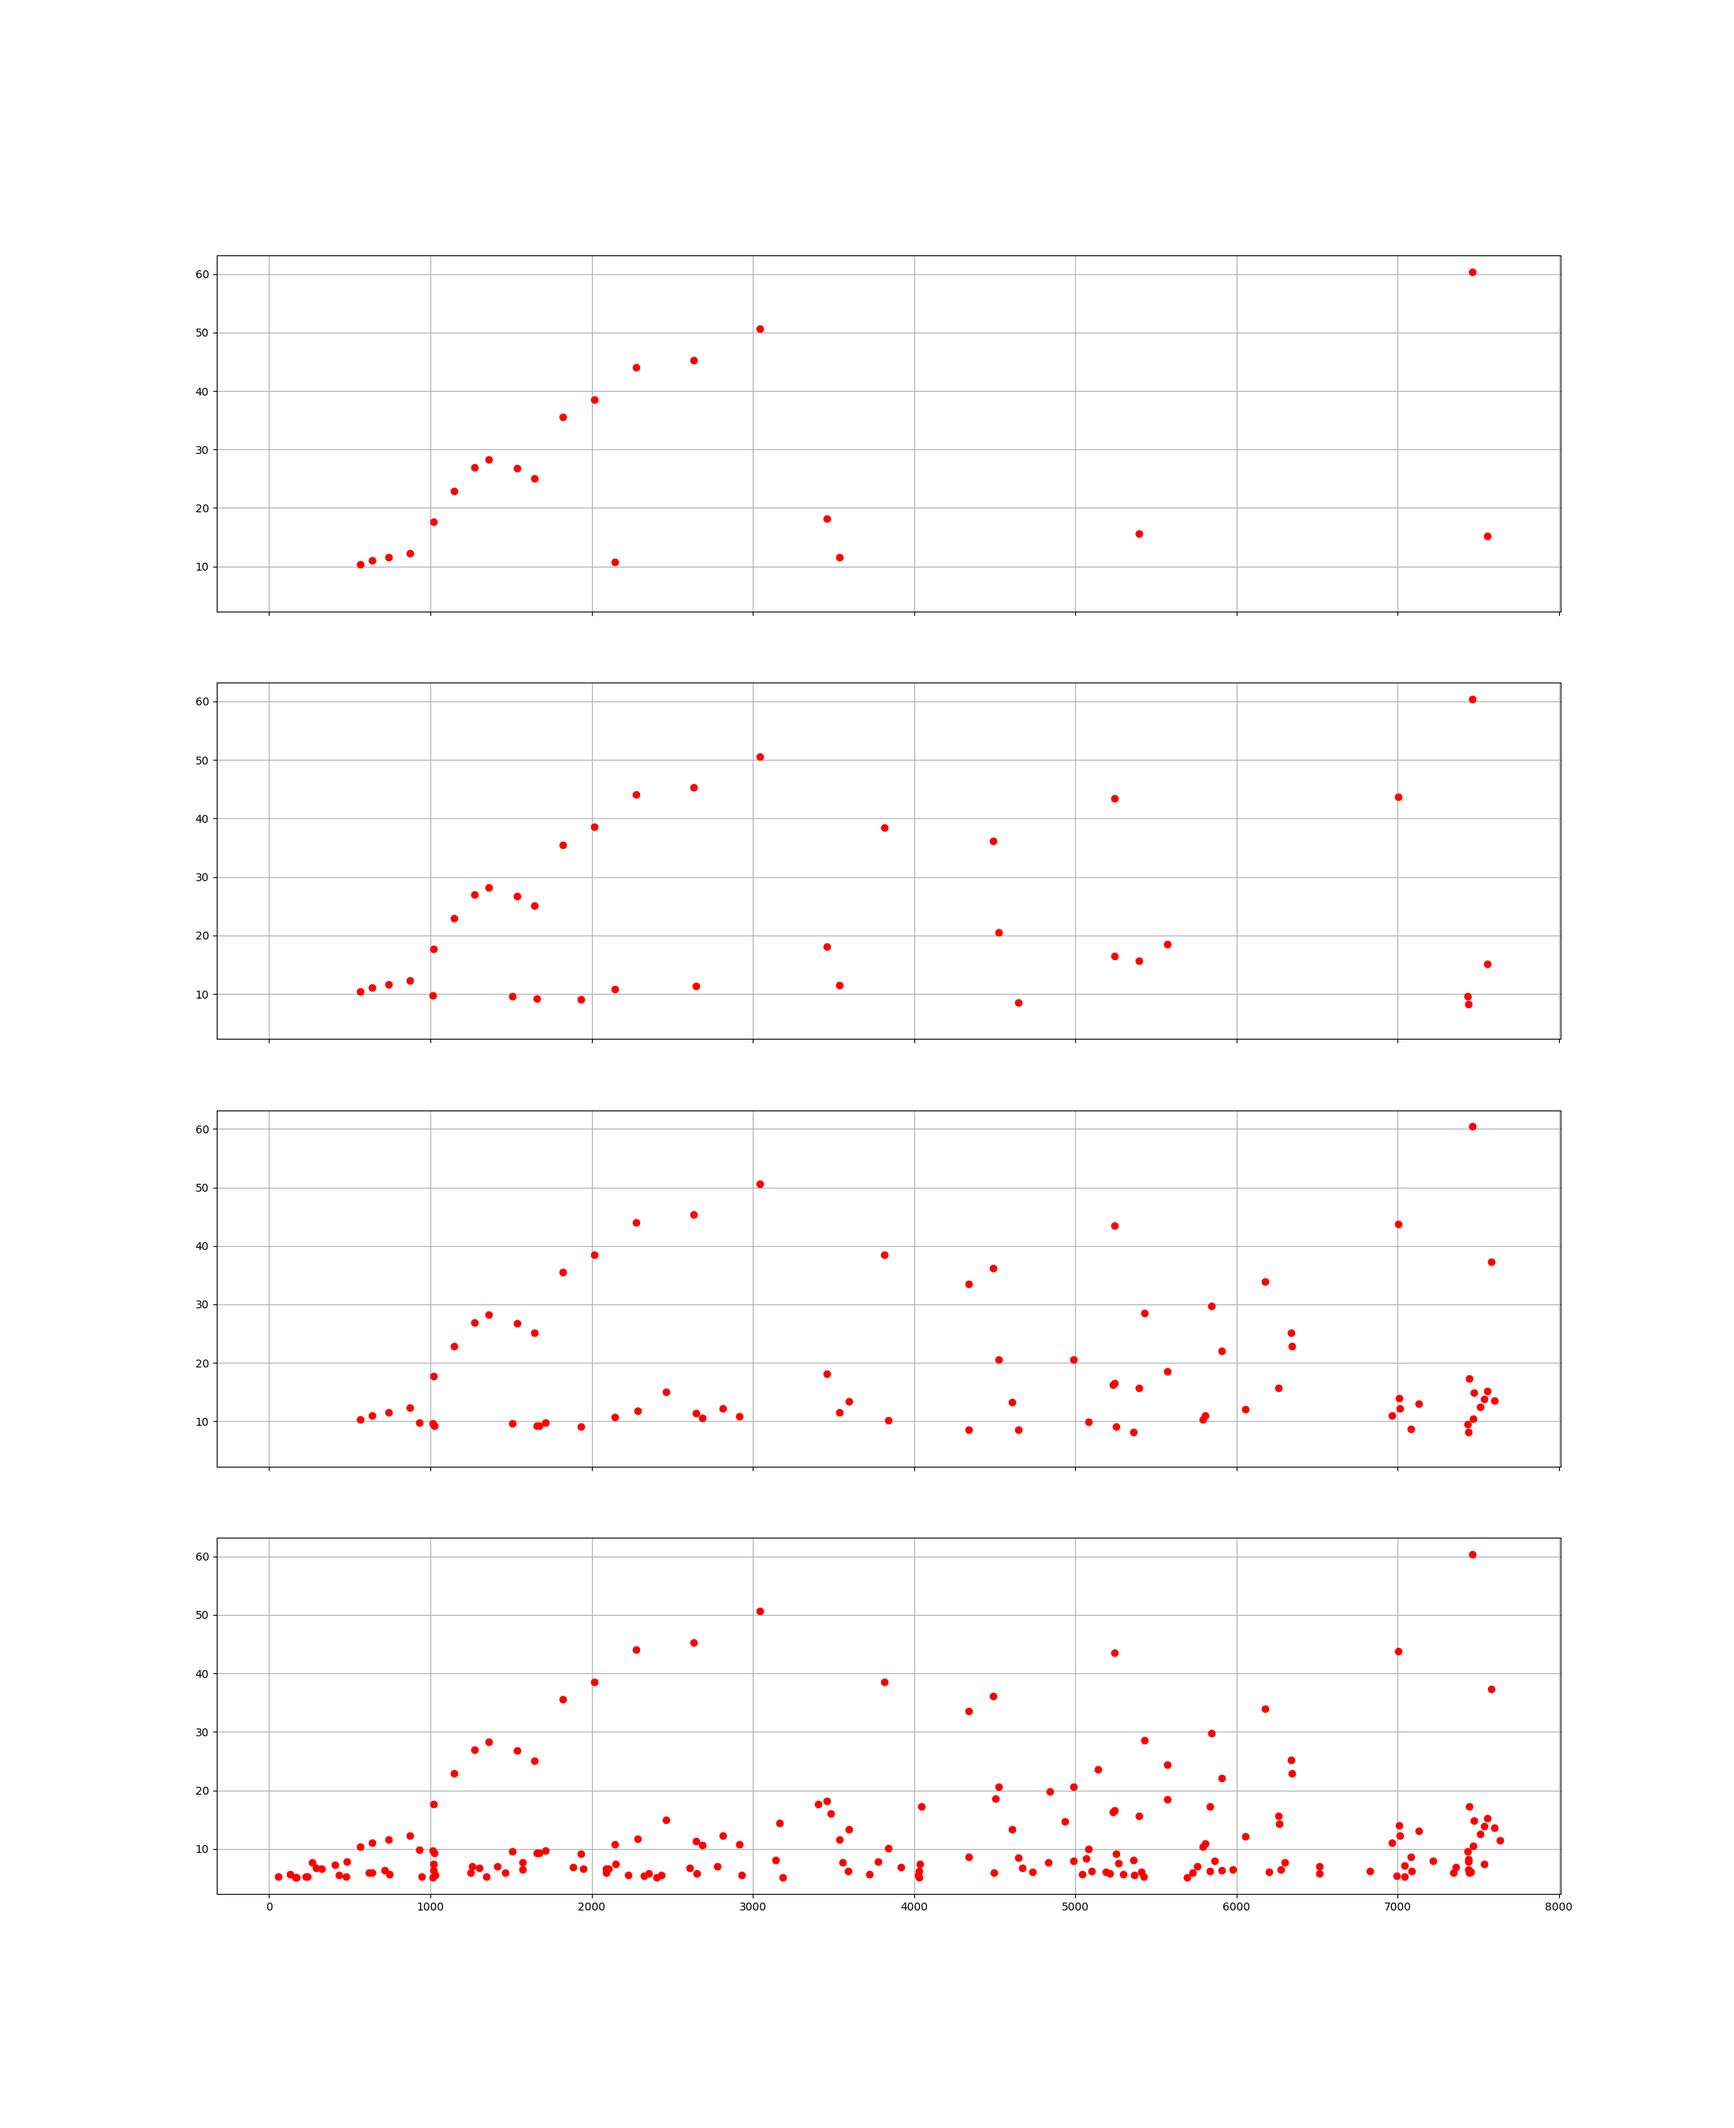
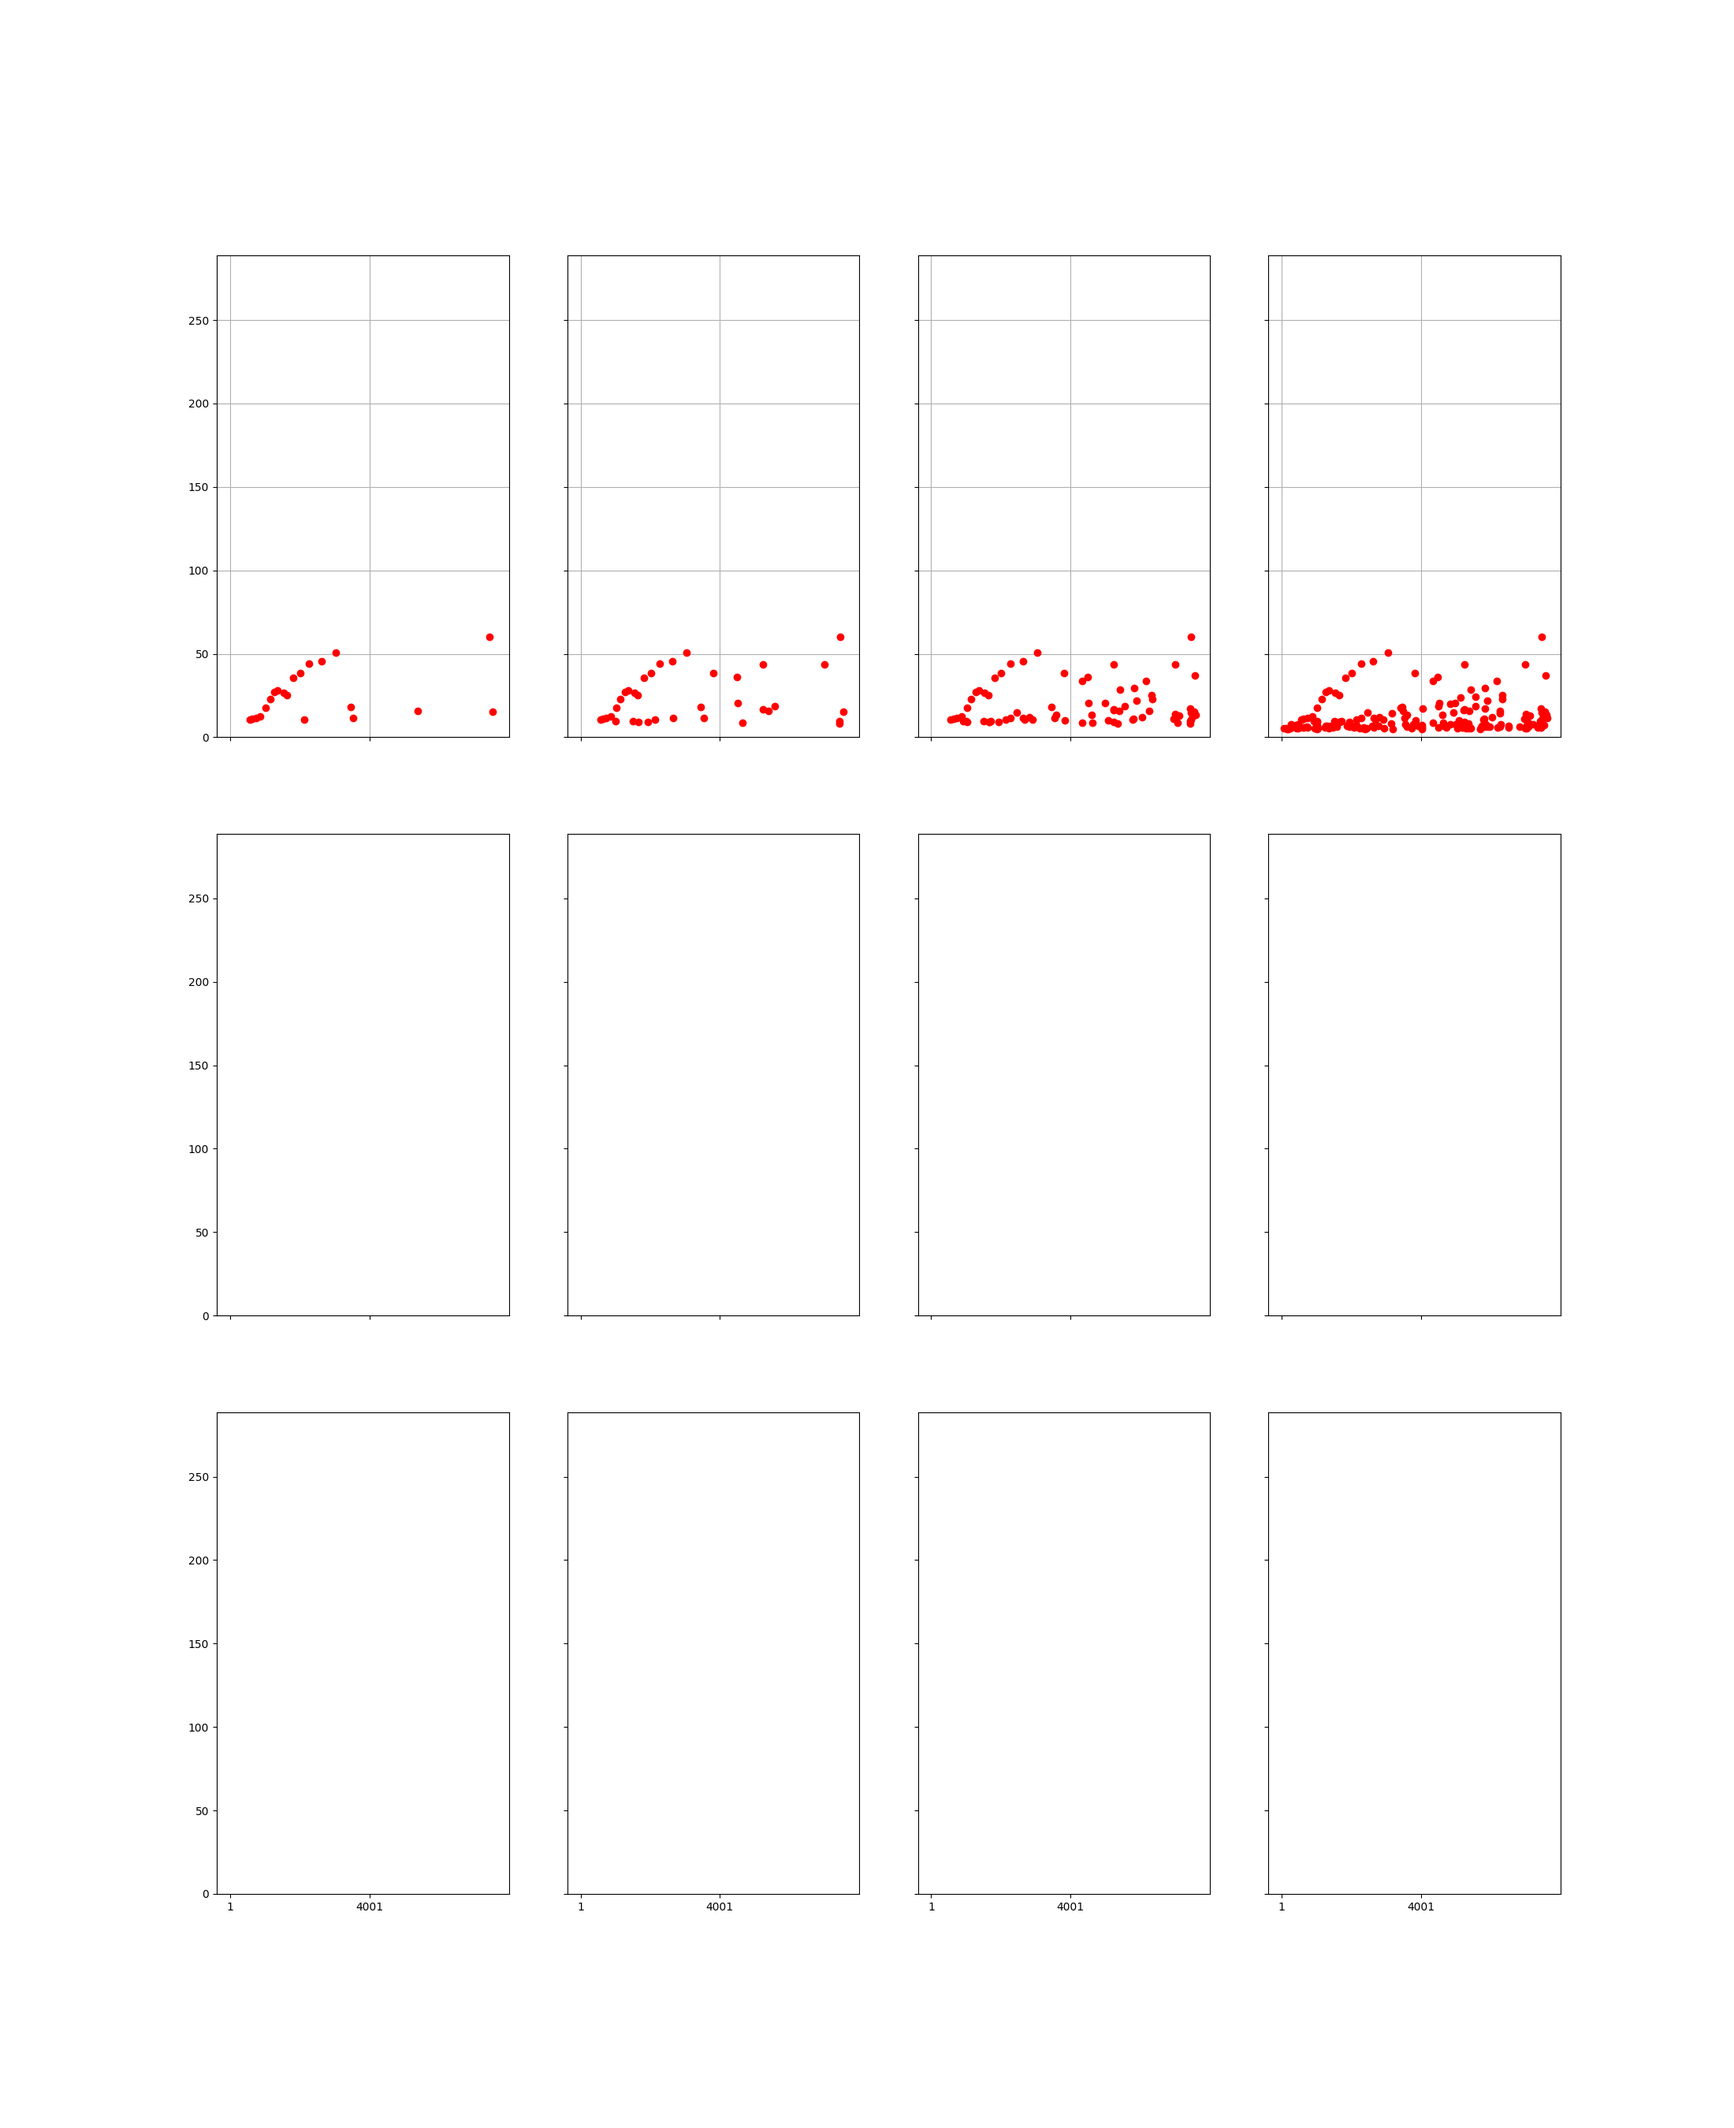
up

diff --git a/returnnTfNetworkLayerPlotter.py b/returnnTfNetworkLayerPlotter.py
@@ -62,7 +62,7 @@ class ReturnnLayerPlotter(object):
 class Layer(object):
     """This is an abstract class"""
 
-    def __init__(self, weights, name, namePath, isPlottingDomainLog):
+    def __init__(self, weights, name, namePath, isPlottingDomainLog, sampleRate):
         self.isPlottingDomainLog = isPlottingDomainLog
         self.name = name
         self.namePath = namePath
@@ -76,6 +76,7 @@ class Layer(object):
         self.dimInputIdx = 0
         self.dimInput = 1
         self.domain = None
+        self.sampleRate = sampleRate
     
     def setDomain(self, domain):
         self.domain = domain
@@ -192,6 +193,7 @@ class Peaks(object):
                 'cleanPeaks': self.filterCleanPeaks,
                 'dirtyPeaks': self.filterDirtyPeaks
         }
+        self.barAccuracies = [1,10,2]
 
     def getPeaks(self, epoch, filterFunctionString, dimInputIdx):
         filterWeights = self.fourierWeights[epoch][dimInputIdx]
@@ -249,7 +251,7 @@ class FeedForwardLayer(Layer):
 class Conv1DLayer(Layer):
 
     def __init__(self, weights, name, namePath, wishedPlottings, isPlottingDomainLog, doPaddedFourierTransform, sampleRate):
-        super(Conv1DLayer, self).__init__(weights, name, namePath, isPlottingDomainLog)
+        super(Conv1DLayer, self).__init__(weights, name, namePath, isPlottingDomainLog, sampleRate)
         self.numFilters = self.shape[0]
         assert weights[0].shape[0] == self.numFilters, "dim not correct"
         assert weights[0].shape[1] == self.filterSize, "dim not correct"
@@ -326,20 +328,39 @@ class Plotter(object):
     def plot2DFilterStats(self):
         assert self.plottingConfigs['pad'], 'Fourier weights should be padded!'
         filterFunctionsToPlot = len(self.plottingConfigs['filterFunctions'])
+        numBarPlots = len(self.layer.peaks.barAccuracies)
 
-        fig, axs = plt.subplots(filterFunctionsToPlot, 1, figsize=self.figSize, sharex=True, sharey=True)
+        fig, axs = plt.subplots(numBarPlots, filterFunctionsToPlot, figsize=self.figSize, sharex=True, sharey=True)
+        ipdb.set_trace()
 
         for epochIdx, epoch in enumerate(self.epochRangeToPlot):
             for filterFunctionIdx, filterFunction in enumerate(self.plottingConfigs['filterFunctions']):
                 peaksToPlot = self.layer.peaks.getPeaks(epochIdx, filterFunction, self.layer.dimInputIdx)
-                xAxisValues = [ x[0] for x in peaksToPlot ]
-                yAxisValues = [ x[1] for x in peaksToPlot ]
-                axs[filterFunctionIdx].plot(xAxisValues, yAxisValues, 'ro')
-                axs[filterFunctionIdx].grid(b=True)
+                for barIdx, barAccuracy in enumerate(self.layer.peaks.barAccuracies):
+                    self.plot2DStat(axs, barIdx, filterFunctionIdx, peaksToPlot, barAccuracy)
 
             plotId = '_epoch' + str(epoch) + '_dimIdx' + str(self.layer.dimInputIdx) + '_filterLength=' + str(self.layer.filterSize) + '_stats'
             self.savePlot(plt, plotId)
             self.setPlotTitle(plt, plotId)
+
+    def plot2DStat(self, axs, barIdx, filterFunctionIdx, peaksToPlot, barAccuracy):
+        if(barAccuracy == 1):
+            xAxisValues = [ x[0] for x in peaksToPlot ]
+            yAxisValues = [ x[1] for x in peaksToPlot ]
+            axs[barIdx][filterFunctionIdx].plot(xAxisValues, yAxisValues, 'ro')
+            axs[barIdx][filterFunctionIdx].grid(b=True)
+        else: 
+            xAxisValues = range(barAccuracy)
+            maxFreq = int((self.layer.sampleRate+1)/2)
+            intervalLen = int((maxFreq+1)/barAccuracy)
+            yAxisValues = self.countElemsInInterval(peaksToPlot, maxFreq, intervalLen)
+            axs[barIdx][filterFunctionIdx].set_xticks(range(1,maxFreq+1, intervalLen))
+            axs[barIdx][filterFunctionIdx].bar(xAxisValues, yAxisValues)
+
+    def countElemsInInterval(self, peaksToPlot, maxFreq, intervalLen):
+        histogram,_ = np.histogram(peaksToPlot, bins=range(0, maxFreq+1, intervalLen))
+        return histogram
+
 
          
     def plot1DSimpleWeightsAll(self):
